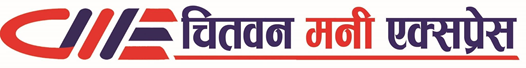
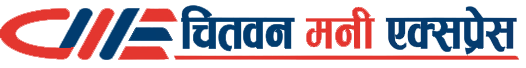
Branded color software

diff --git a/content/styles/cme.css b/content/styles/cme.css
@@ -47,7 +47,7 @@ text-align:left;
 padding-top:5px;
 padding-bottom:4px;
 //background-color: #1b043d;
-background-color:#3c2b55;
+background-color:#013c6f;
 color:#ffffff;
 }
 
@@ -96,7 +96,7 @@ tr:nth-child(odd) {background: #FFF}
 margin-right: 5px;
 margin-left: 5px;
 
-background-color: #E13300;
+background-color: #013c6f;
 padding: 5px;
 font-size: 16px;
 font-weight: bold;
